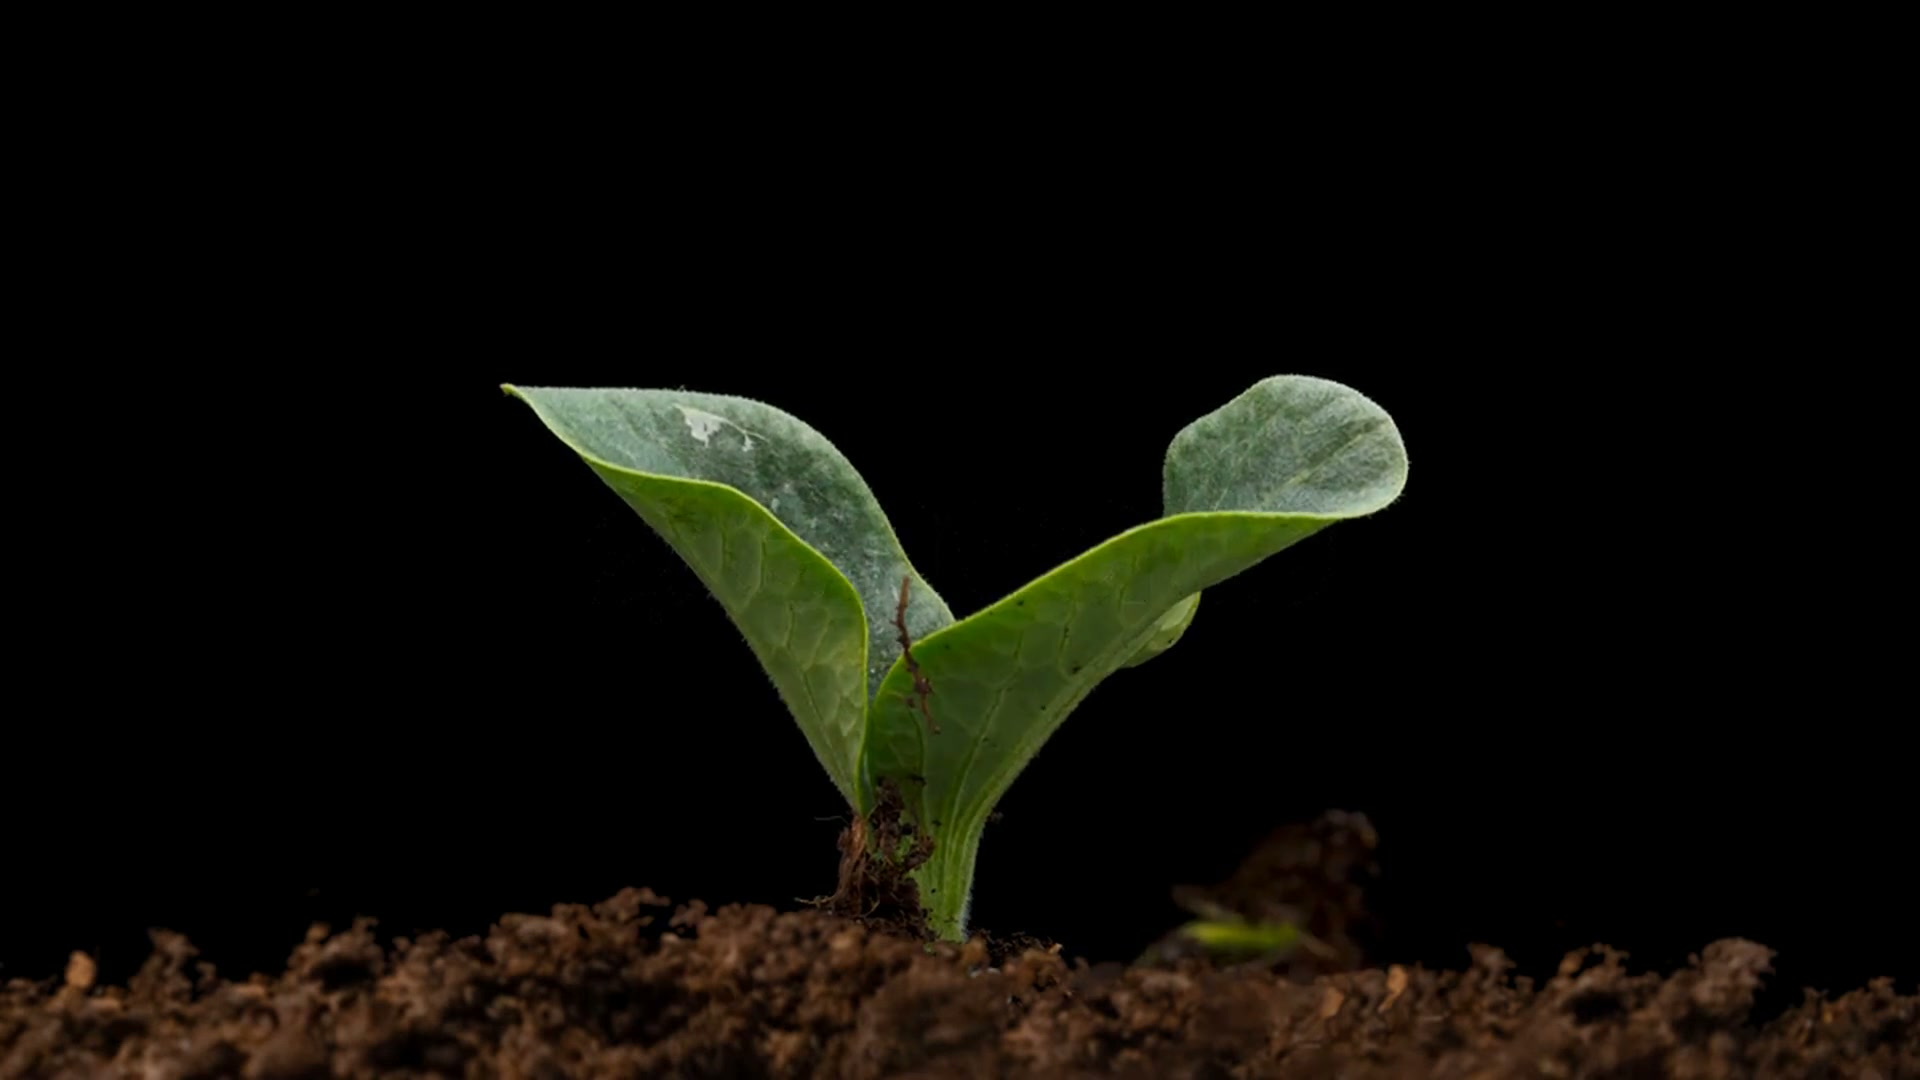
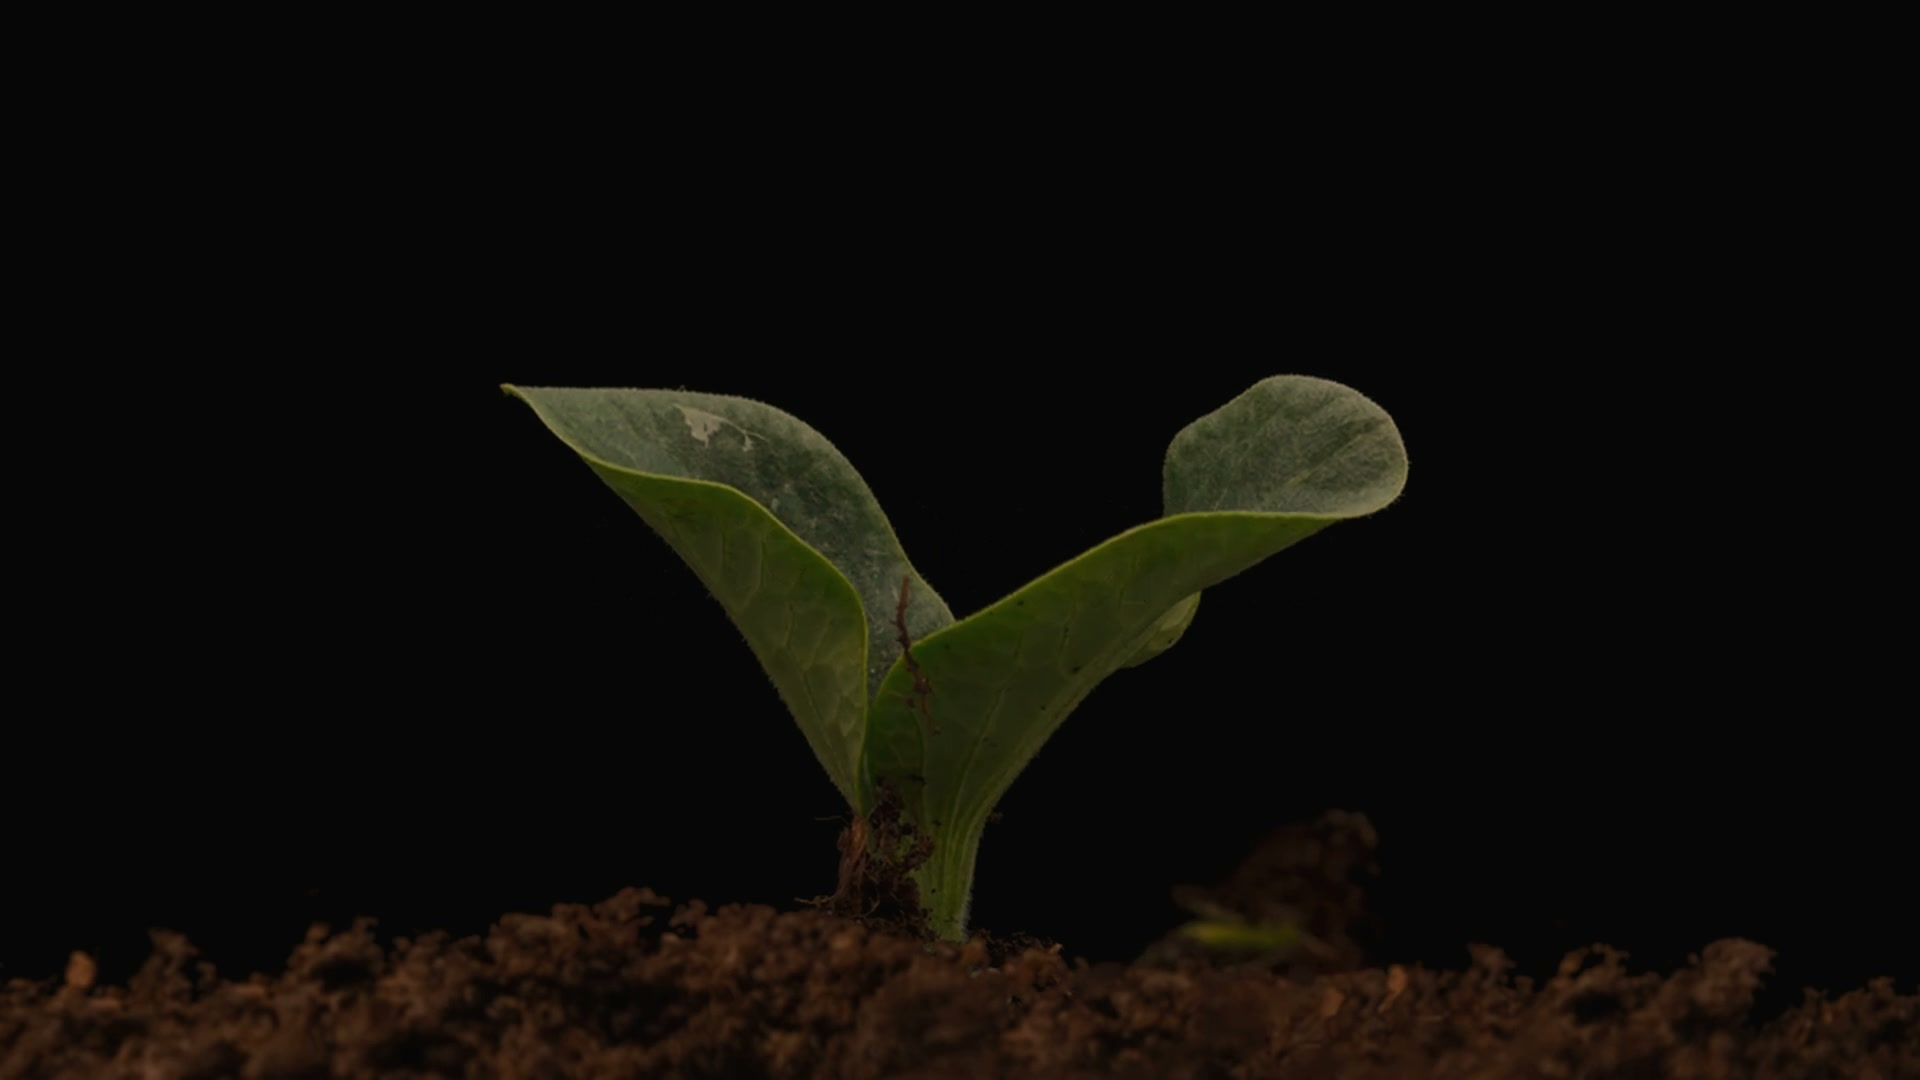
Refresh hero still and soften replacement grain overlay

diff --git a/src/components/HeroBackground.tsx b/src/components/HeroBackground.tsx
@@ -3,7 +3,7 @@ import styled from 'styled-components'
 import { colors } from '../lib/styles'
 import heroVideo from '../assets/hero-animation-fast.mp4'
 import heroStill from '../assets/hero-final.jpg'
-import grain from '../assets/grain.avif'
+import grain from '../assets/grain.jpg'
 
 const Background = styled.div<{ $finished: boolean }>`
   position: absolute;
@@ -16,6 +16,10 @@ const Background = styled.div<{ $finished: boolean }>`
     height: 100%;
     object-fit: cover;
     object-position: center;
+  }
+
+  img {
+    transform: scale(1.1);
   }
 
   video {
@@ -40,8 +44,8 @@ const Atmosphere = styled.div`
     position: absolute;
     inset: -1px;
     background: url(${grain}) center / cover no-repeat;
-    mix-blend-mode: screen;
-    opacity: 0.25;
+    mix-blend-mode: soft-light;
+    opacity: 0.1;
     filter: blur(0.4px);
   }
 `
